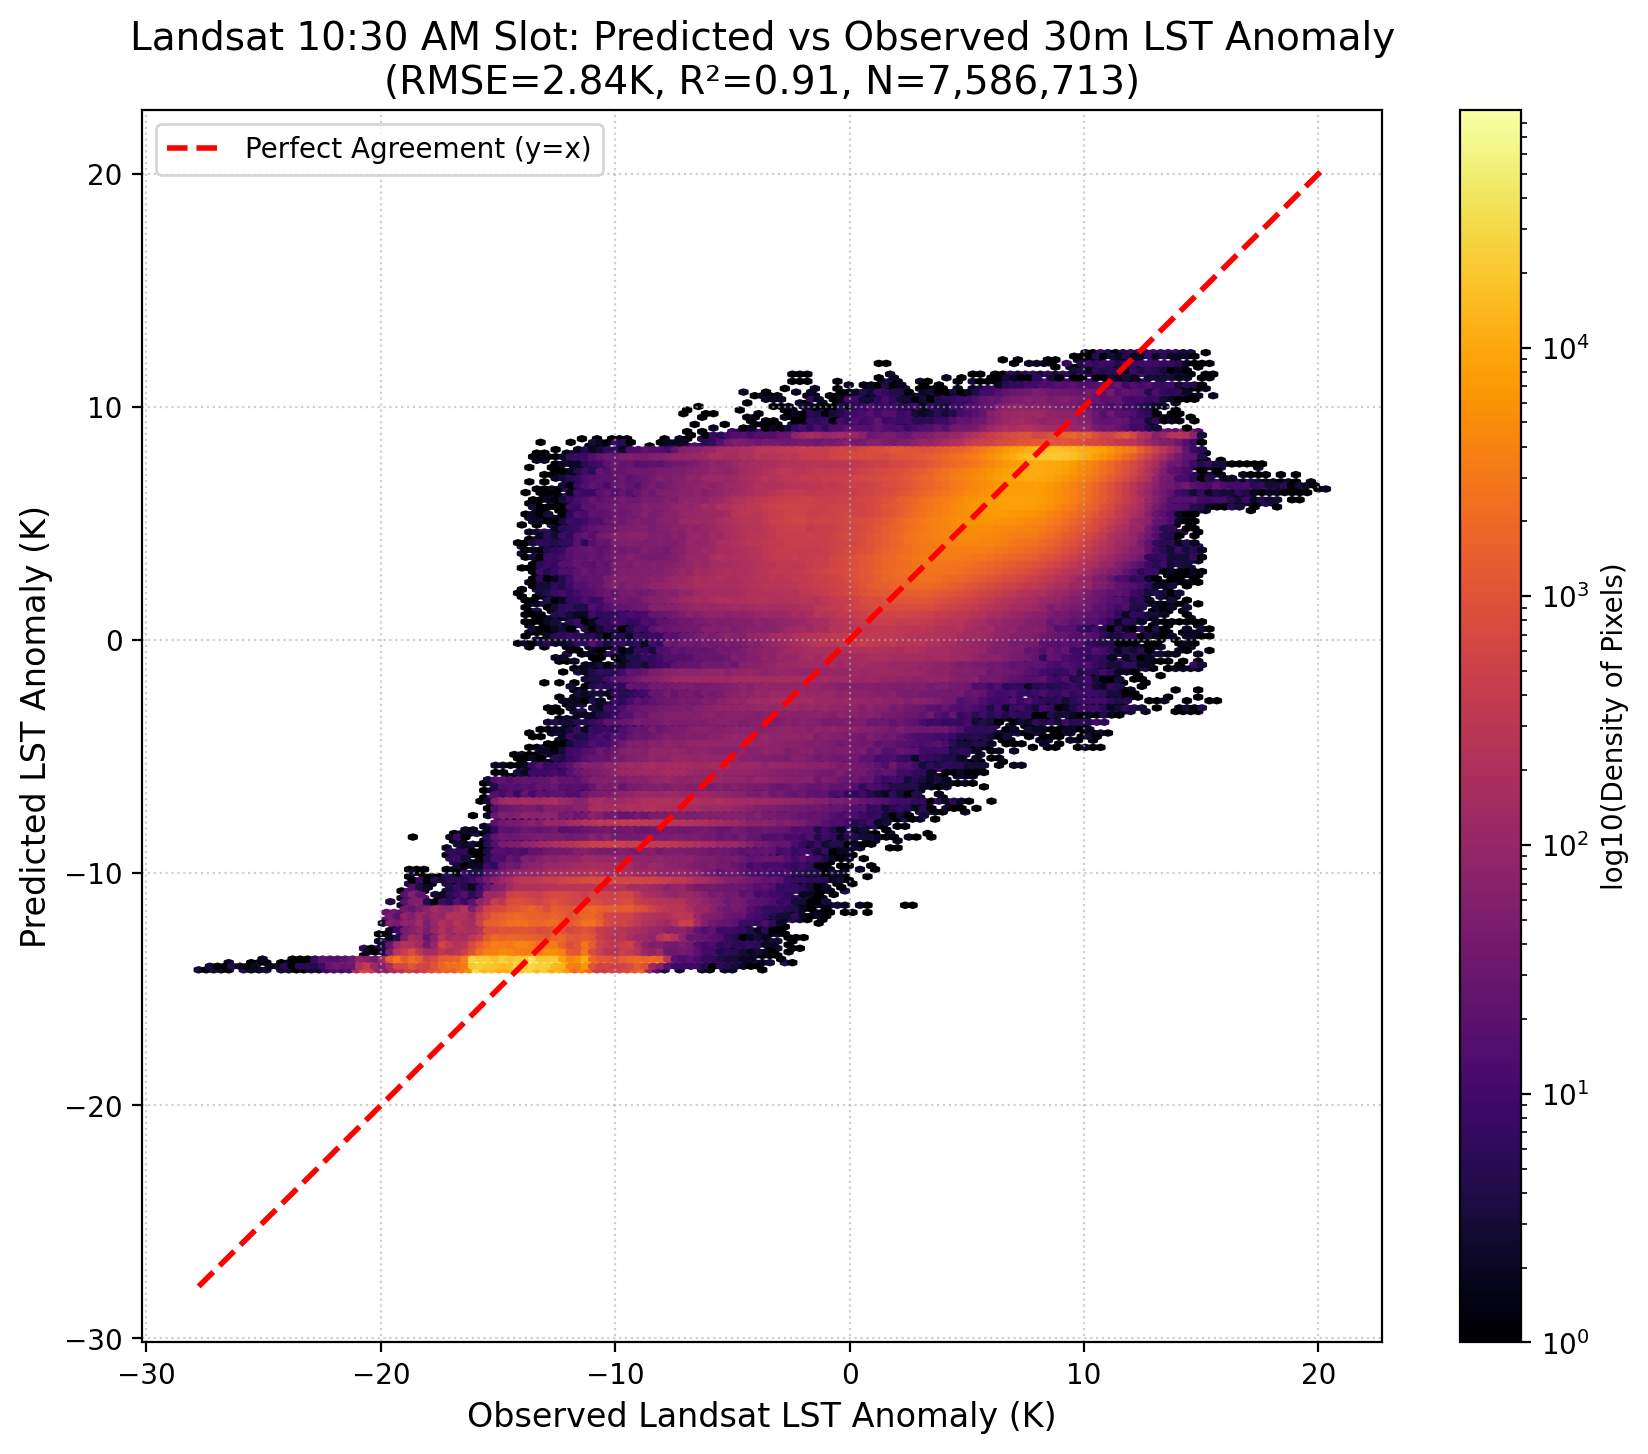
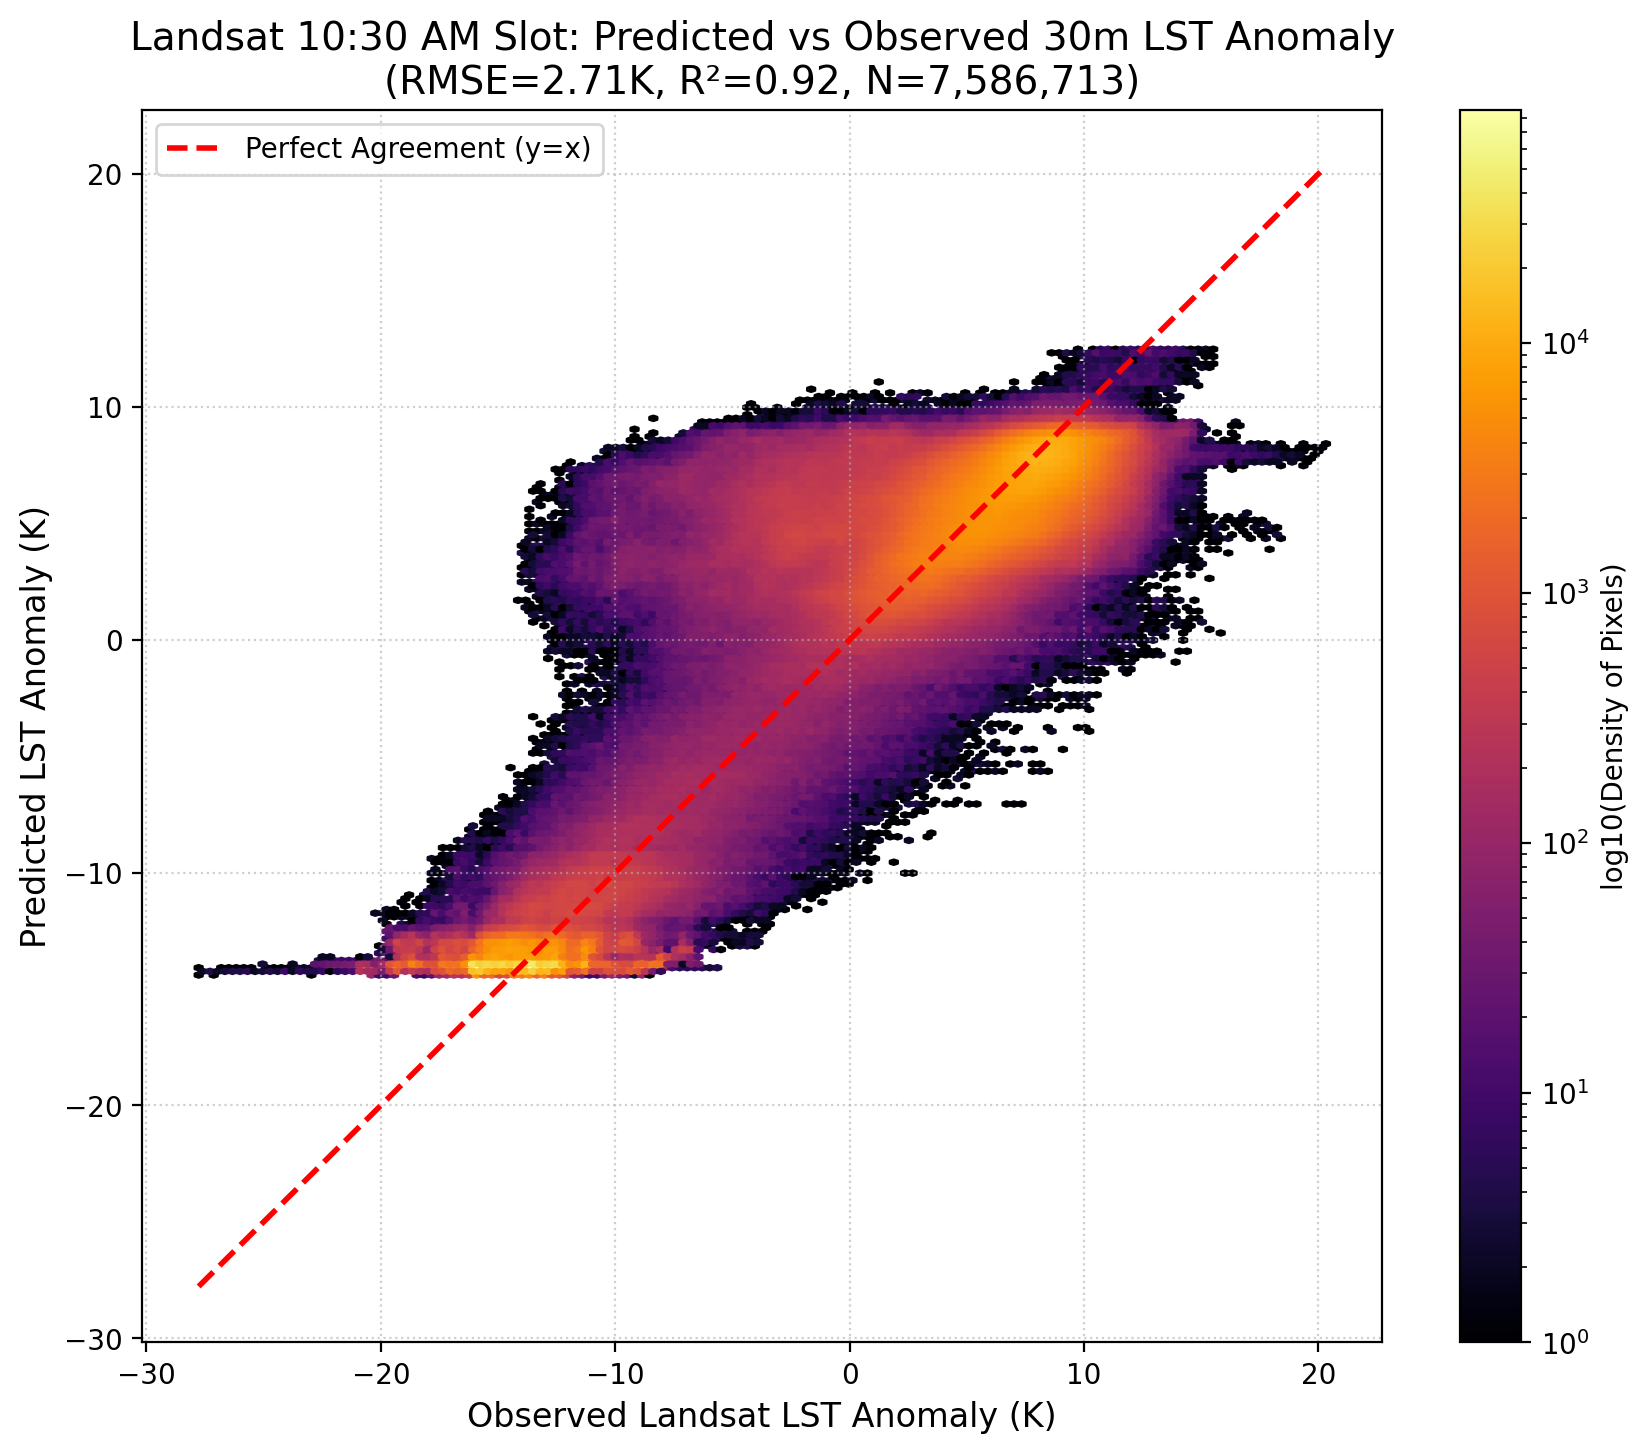
Modified the remaining landsat scripts to include the std features and ran eval

diff --git a/src/phase3_evaluation/eval_landsat.py b/src/phase3_evaluation/eval_landsat.py
@@ -57,7 +57,7 @@ def load_data():
     # Load all 24M rows, but only required columns, explicitly typed to save memory
     df = pd.read_csv(TRAINING_CSV, 
                      usecols=['pixel_x', 'pixel_y', 'scene_id', 'landsat_lst',
-                              'building_density_mean', 'dist_to_coast_m', 'sand_mask_fraction'],
+                              'building_density_mean', 'dist_to_coast_m', 'sand_mask_fraction', 'ndvi_std'],
                      dtype={
                          'pixel_x': np.float32, 
                          'pixel_y': np.float32, 
@@ -65,7 +65,8 @@ def load_data():
                          'landsat_lst': np.float32,
                          'building_density_mean': np.float32,
                          'dist_to_coast_m': np.float32,
-                         'sand_mask_fraction': np.float32
+                         'sand_mask_fraction': np.float32,
+                         'ndvi_std': np.float32
                      })
     
     # Calculate truth anomaly
@@ -87,15 +88,17 @@ def analyze_feature_strata(df):
     df['coast_bin'] = pd.cut(df['dist_to_coast_m'], bins=[-1, 2000, 5000, 10000, 20000, 100000], labels=['<2km', '2-5km', '5-10km', '10-20km', '>20km'])
     df['density_bin'] = pd.cut(df['building_density_mean'], bins=[-0.1, 0.1, 0.3, 0.6, 1.1], labels=['Low (<10%)', 'Med (10-30%)', 'High (30-60%)', 'Very High (>60%)'])
     df['sand_bin'] = pd.cut(df['sand_mask_fraction'], bins=[-0.1, 0.1, 0.5, 0.9, 1.1], labels=['<10% Sand', '10-50% Sand', '50-90% Sand', '>90% Sand'])
+    df['ndvi_std_bin'] = pd.cut(df['ndvi_std'], bins=[-0.1, 0.01, 0.05, 0.1, 1.0], labels=['Uniform', 'Low Var.', 'Med Var.', 'High Var.'])
     
     metrics_path = OUTPUT_DIR / "landsat_30m_metrics.txt"
     with open(metrics_path, "a") as f:
         # Generate Plots
-        fig, axes = plt.subplots(1, 3, figsize=(18, 5))
+        fig, axes = plt.subplots(1, 4, figsize=(24, 5))
         
         for i, (col, title) in enumerate([('coast_bin', 'Distance to Coast'), 
                                           ('density_bin', 'Building Density'), 
-                                          ('sand_bin', 'Sand Fraction')]):
+                                          ('sand_bin', 'Sand Fraction'),
+                                          ('ndvi_std_bin', 'NDVI Variance')]):
             
             stats = df.groupby(col, observed=True)['error'].agg(
                 rmse=lambda x: np.sqrt(np.mean(x**2)),
@@ -118,7 +121,7 @@ def analyze_feature_strata(df):
             ax2.bar(x + width/2, stats['bias'], width, label='Bias (K)', color='skyblue')
             
             ax1.set_ylabel('RMSE (K)')
-            if i == 2:
+            if i == 3:
                 ax2.set_ylabel('Mean Bias (K)')
             
             ax1.set_title(title)

diff --git a/src/phase3_model/predict_landsat.py b/src/phase3_model/predict_landsat.py
@@ -1,3 +1,4 @@
+# Makes the 30m map
 import json
 import numpy as np
 import rasterio
@@ -20,10 +21,15 @@ OUTPUT_PATH = OUTPUT_DIR / "lst_anomaly_landsat_30m.tif"
 # Feature rasters in the SAME ORDER as the training features
 FEATURE_FILES = {
     'ndvi_mean':                DATA_DIR / "ndvi_30m.tif",
+    'ndvi_std':                 DATA_DIR / "ndvi_std_30m.tif",
     'albedo_mean':              DATA_DIR / "albedo_30m.tif",
+    'albedo_std':               DATA_DIR / "albedo_std_30m.tif",
     'building_density_mean':    DATA_DIR / "building_density_30m.tif",
+    'building_density_std':     DATA_DIR / "building_density_std_30m.tif",
     'height_mean':              DATA_DIR / "height_30m.tif",
+    'height_std':               DATA_DIR / "height_std_30m.tif",
     'road_density_mean':        DATA_DIR / "road_density_30m.tif",
+    'road_density_std':         DATA_DIR / "road_density_std_30m.tif",
     'sand_mask_fraction':       DATA_DIR / "sand_mask_30m.tif",
     'water_mask_full_fraction': DATA_DIR / "water_mask_full_30m.tif",
     'dist_to_coast_m':          DATA_DIR / "dist_to_coast_30m.tif",
@@ -53,14 +59,14 @@ def main():
     logger.info(f"Grid: {height}x{width}, CRS: {ref_crs}")
     
     # 2. Load all feature rasters
-    logger.info("Loading 8 feature rasters...")
+    logger.info("Loading 13 feature rasters...")
     feature_names = list(FEATURE_FILES.keys())
     
     feature_stack = np.zeros((len(feature_names), height, width), dtype=np.float32)
     valid_mask = np.ones((height, width), dtype=bool)
     
     for i, (name, path) in enumerate(FEATURE_FILES.items()):
-        logger.info(f"  [{i+1}/8] {name}: {path.name}")
+        logger.info(f"  [{i+1}/13] {name}: {path.name}")
         
         with rasterio.open(path) as src:
             data = src.read(1).astype(np.float32)
@@ -68,11 +74,13 @@ def main():
             
             if nodata == -9999.0:
                 outside = (data <= -9000)
-                valid_mask &= ~outside
+                if not name.endswith('_std'):
+                    valid_mask &= ~outside
                 data[outside] = 0
             elif nodata is not None and np.isnan(nodata):
                 outside = np.isnan(data)
-                valid_mask &= ~outside
+                if not name.endswith('_std'):
+                    valid_mask &= ~outside
                 data[outside] = 0
             
             feature_stack[i] = data

diff --git a/src/phase3_model/train_landsat.py b/src/phase3_model/train_landsat.py
@@ -87,11 +87,12 @@ def create_block_split(df):
     n_test_blocks = int(len(blocks) * TEST_RATIO)
     test_blocks_df = shuffled_blocks.iloc[:n_test_blocks]
     
-    # Create Mask
-    test_blocks_set = set(zip(test_blocks_df['block_x'], test_blocks_df['block_y']))
-        
-    # Apply mask
-    df['is_test'] = df.apply(lambda row: (row['block_x'], row['block_y']) in test_blocks_set, axis=1)
+    # Create Mask array using incredibly fast vectorized merge
+    test_blocks_df = test_blocks_df.copy()
+    test_blocks_df['is_test'] = True
+    
+    df = df.merge(test_blocks_df, on=['block_x', 'block_y'], how='left')
+    df['is_test'] = df['is_test'].fillna(False)
     
     train_df = df[~df['is_test']].copy()
     test_df = df[df['is_test']].copy()
